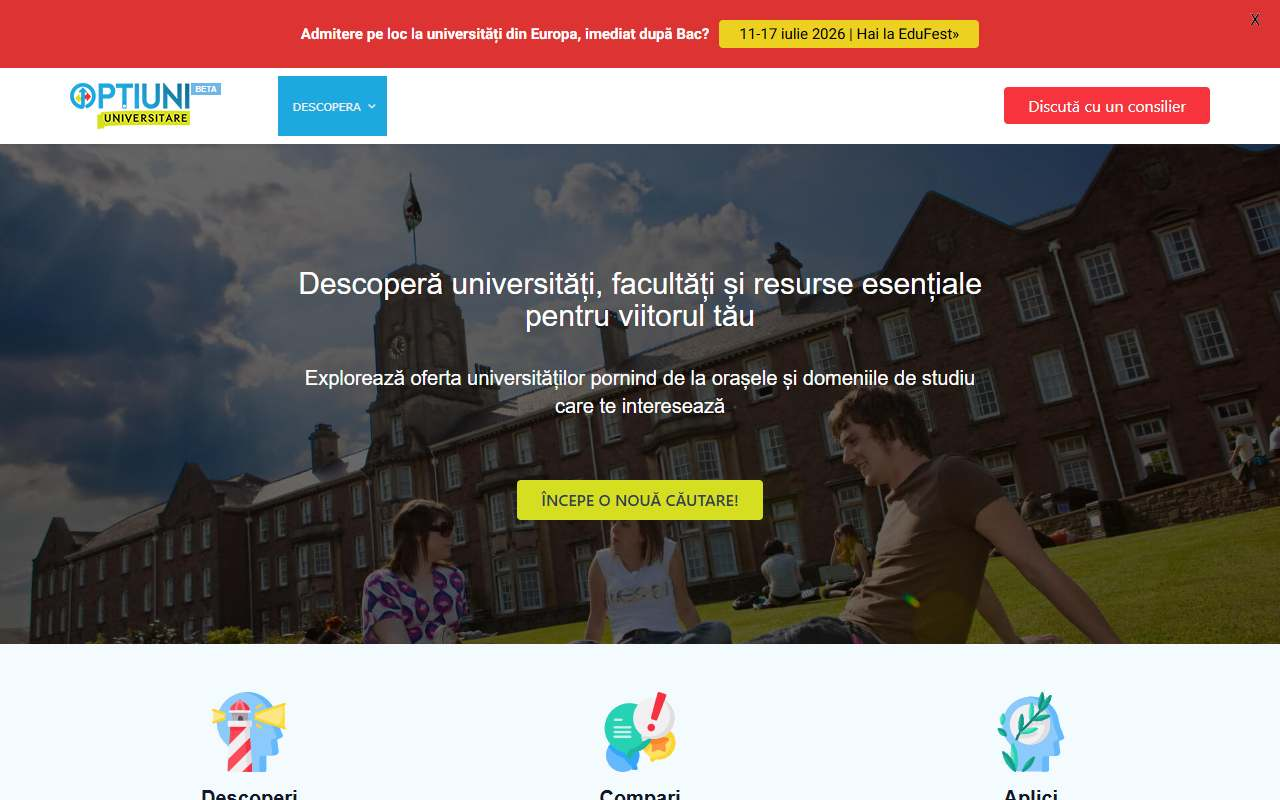
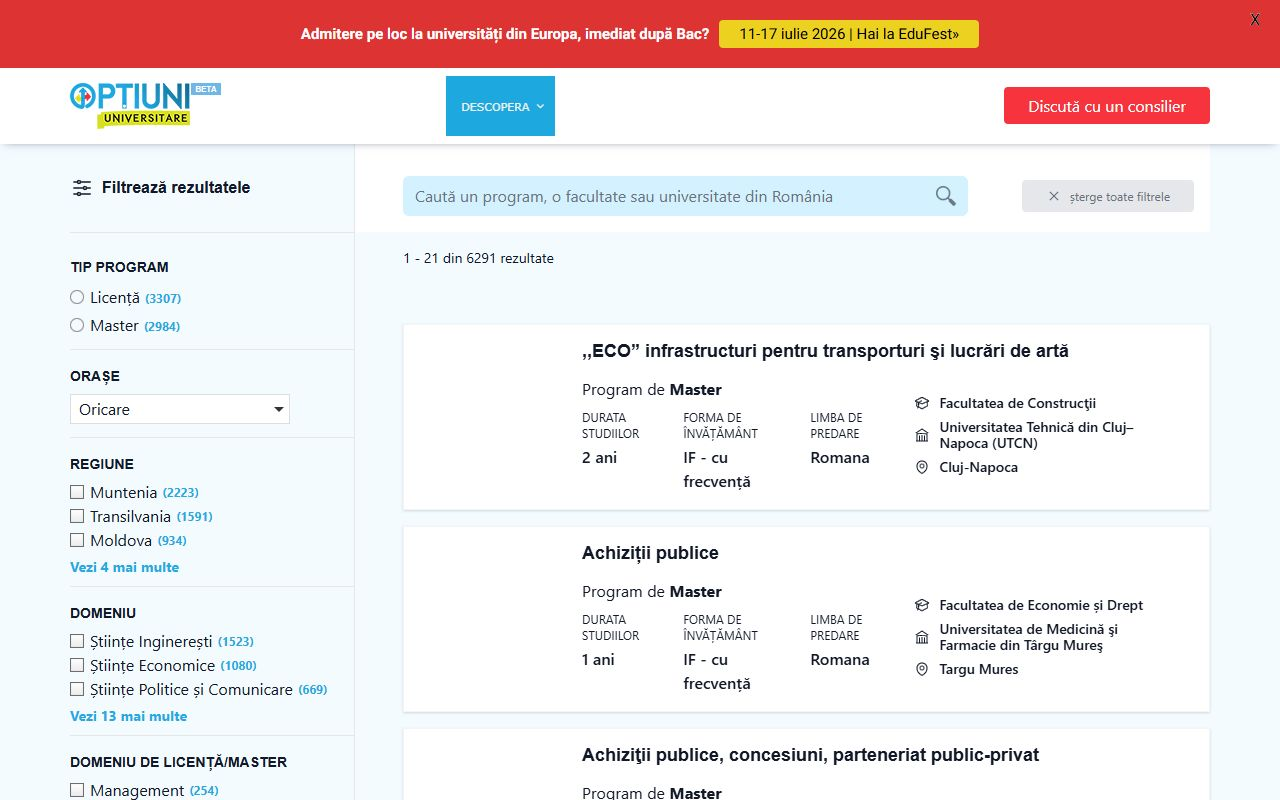
Clients: Optiuni.ro tile shows the search page

diff --git a/src/data/portfolio.js b/src/data/portfolio.js
@@ -40,7 +40,7 @@ export const clients = [
   c('Arhiserv', 'https://arhiserv.ro', 'Corporate', 'Site de companie'),
   { ...c('Wooba', '', 'E-commerce', 'Magazin online'), offline: true },
   c('Educativa', 'https://educativa.ro', 'Educație', 'Site'),
-  c('Optiuni.ro', 'https://optiuni.ro', 'Fintech', 'Dezvoltare full-stack'),
+  c('Optiuni.ro', 'https://optiuni.ro/cautare/', 'Fintech', 'Dezvoltare full-stack'),
   c('Edmundo', 'https://edmun.do', 'Educație', 'Dezvoltare WordPress multilingv'),
   { ...c('Glora.us', '', 'E-commerce', 'Magazin online'), offline: true },
   c('PerformanceHR', 'https://performancehr.com.au', 'Corporate', 'Site de companie'),
